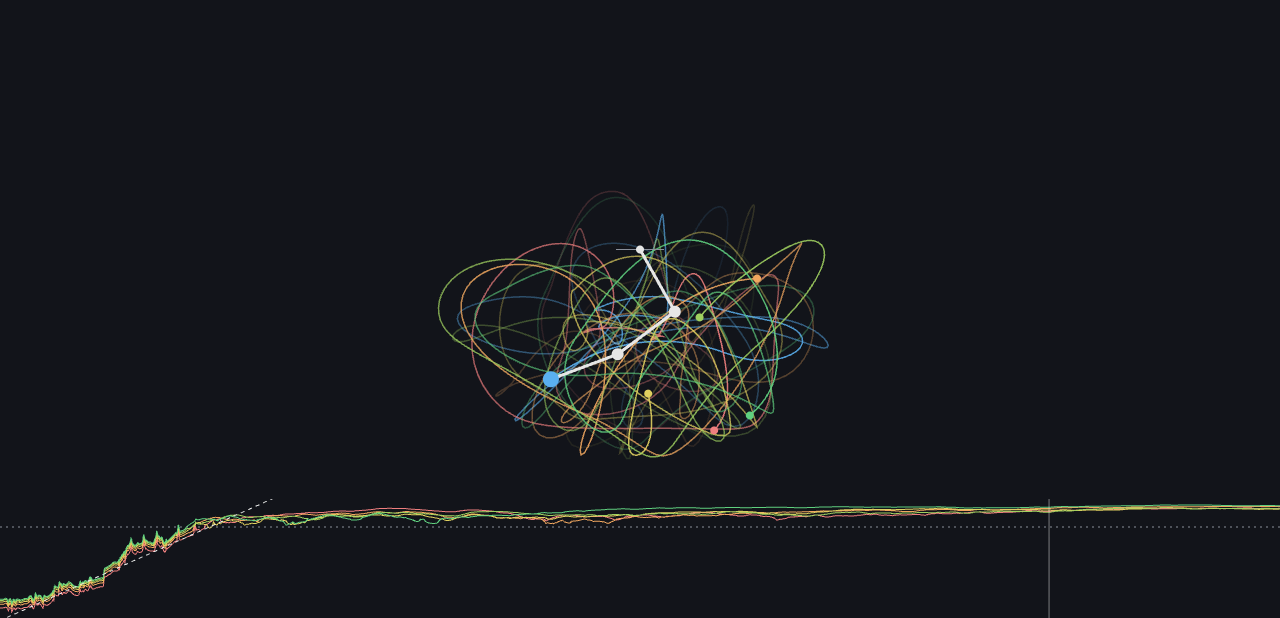
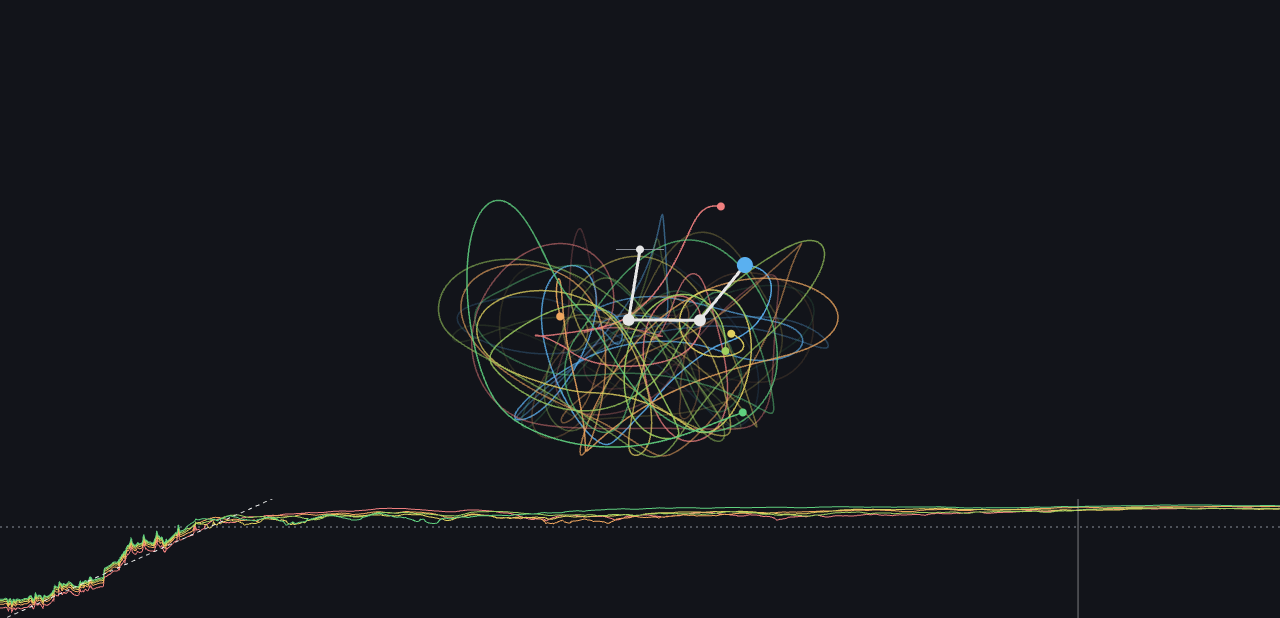
Smooth trails: raise decimation caps to full window resolution
TRAIL_MAX_PTS 600 -> 4000 (Lorenz/pendulum windows now draw undecimated)
and MAP_MAX_PTS 2000 -> 10000 in all three scenes; measured 120 fps avg,
10.4 ms worst frame during 16x Lorenz playback. Screenshots retaken.

Changed region(s): [[0.3438, 0.3689, 0.6562, 0.7379], [0.4688, 0.3074, 0.5, 0.3382], [0.375, 0.3074, 0.4062, 0.3382]]

diff --git a/src/render/pendulumScene.ts b/src/render/pendulumScene.ts
@@ -12,8 +12,8 @@ import { COLORS, decimate, drawDivergenceStrip, drawFadingTrail, drawTrailMap, e
 // windowed bright trail: decimate the in-window slice to <= TRAIL_MAX_PTS
 // (head lag invisible; the exact current tip is drawn as a marker anyway);
 // paused-at-t0 map: decimate the whole track to <= MAP_MAX_PTS
-const TRAIL_MAX_PTS = 600
-const MAP_MAX_PTS = 2000
+const TRAIL_MAX_PTS = 4000
+const MAP_MAX_PTS = 10000
 
 interface SceneCache {
   rev: number

diff --git a/src/render/nbodyScene.ts b/src/render/nbodyScene.ts
@@ -12,8 +12,8 @@ import { COLORS, decimate, drawDivergenceStrip, drawFadingTrail, drawTrailMap, e
 
 // windowed bright trail: decimate the in-window slice to <= TRAIL_MAX_PTS;
 // paused-at-t0 map: decimate the whole track to <= MAP_MAX_PTS
-const TRAIL_MAX_PTS = 600
-const MAP_MAX_PTS = 2000
+const TRAIL_MAX_PTS = 4000
+const MAP_MAX_PTS = 10000
 
 const bodyRadius = (m: number): number => Math.max(3, 5 * Math.cbrt(m))
 

diff --git a/src/render/lorenzScene.ts b/src/render/lorenzScene.ts
@@ -10,8 +10,8 @@ import {
   COLORS, decimate, drawDivergenceStrip, drawFadingTrail, drawTrailMap, ensembleColor,
 } from './draw'
 
-const MAP_MAX_PTS = 2000
-const TRAIL_MAX_PTS = 600
+const MAP_MAX_PTS = 10000
+const TRAIL_MAX_PTS = 4000
 
 const ROT_PER_PX = 0.01
 const MARGIN = 1.1
